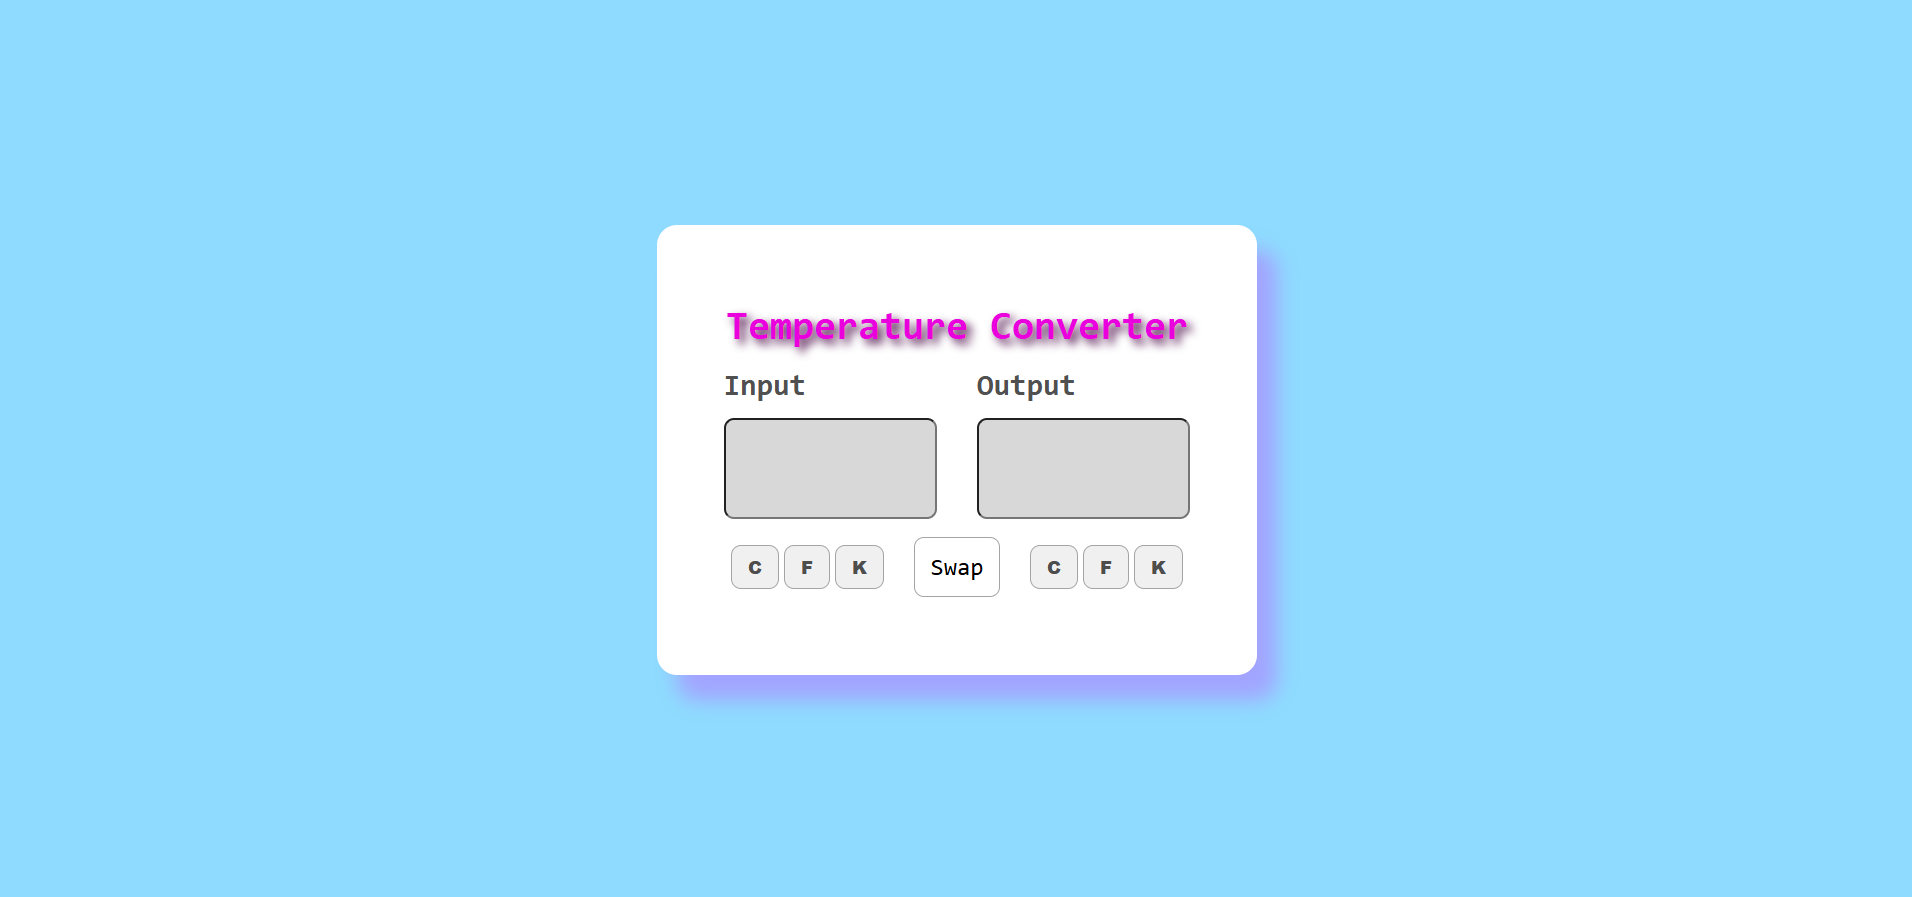
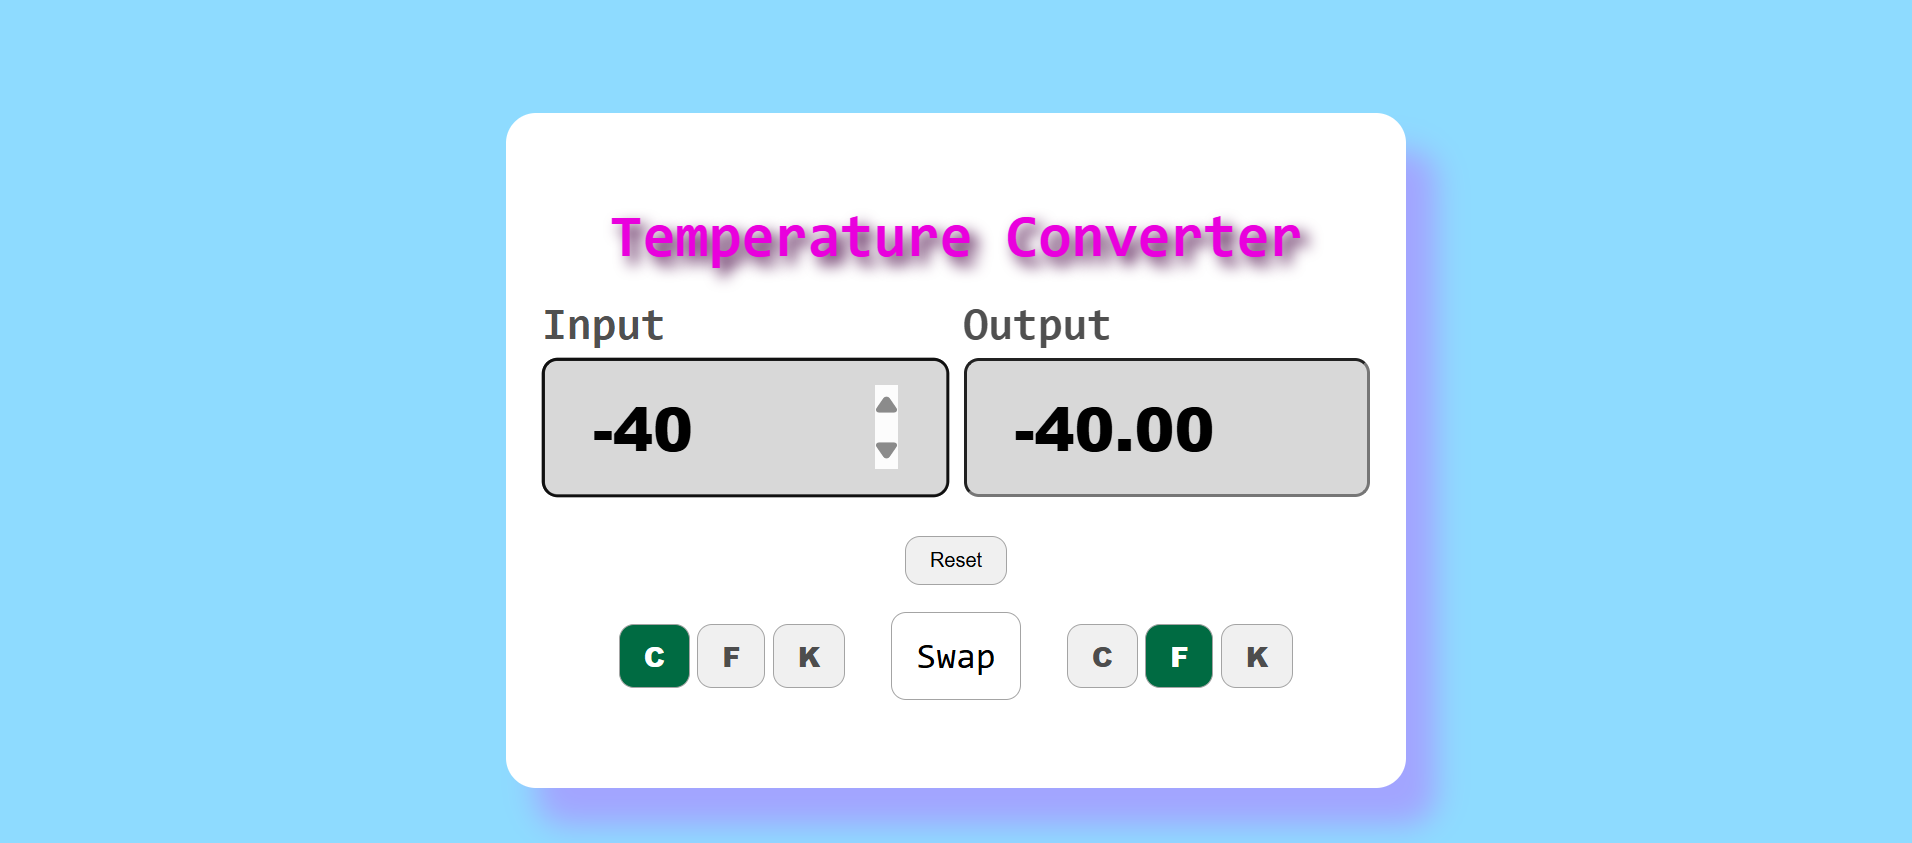
project 012 Temperature converter is completed, applied different approach to reach the final solution to make our code more maintainable.

diff --git a/projects/012-temperature-converter/style.css b/projects/012-temperature-converter/style.css
@@ -67,15 +67,15 @@ body {
   display: flex;
   justify-content: center;
   align-items: center;
-  gap: 40px;
-  width: 85%;
+  gap: 10px;
+  width: 100%;
   padding: 0.5rem;
 }
 .input-output-container div {
   display: flex;
   flex-direction: column;
-  gap: 15px;
-  width: 100%;
+  gap: 5px;
+  width: 90%;
   color: var(--text-secondary);
 }
 .input-output-container label {
@@ -87,11 +87,11 @@ body {
   /* padding: 2rem 1rem; */
   background-color: #d8d8d8;
   border-radius: 10px;
-  font-size: 46px;
+  font-size: 40px;
   padding: 1rem 2rem;
   width: 100%;
   font-weight: 900;
-  flex: 3;
+  flex: 1;
 }
 #output {
   pointer-events: none;
@@ -115,8 +115,8 @@ body {
   padding: 0.5rem;
   gap: 5px;
 }
-.input,
-.output {
+.input-btn,
+.output-btn {
   font-weight: 900;
   font-size: 18px;
   color: var(--text-secondary);
@@ -132,6 +132,15 @@ body {
   font-size: 24px;
 }
 
+.input-btn.active {
+  color: white;
+  background-color: rgb(0, 107, 66);
+}
+.output-btn.active {
+  color: white;
+  background-color: rgb(0, 107, 66);
+}
+
 @media (max-width: 768px) {
   .card {
     max-width: 460px;
@@ -140,36 +149,44 @@ body {
   .card .heading {
     font-size: 32px;
   }
+  .input-output-container div {
+    gap: 3px;
+  }
   .input-output-container .text {
     font-size: 30px;
     padding: 0.5rem 1rem;
     width: 100%;
   }
   .input-output-container {
-    gap: 30px;
     width: 90%;
+  }
+  .input-output-container label {
+    font-size: 20px;
   }
   .swap {
     font-size: 20px;
   }
-  .input,
-  .output {
+  .input-btn,
+  .output-btn {
     font-size: 14px;
   }
 }
 
 @media (max-width: 430px) {
   .card {
-    max-width: 400px;
+    max-width: 250px;
     min-height: 350px;
     gap: 5px;
   }
   .card .heading {
-    font-size: 20px;
+    font-size: 16px;
   }
   .input-output-container {
     flex-direction: column;
-    gap: 20px;
+    gap: 5px;
+  }
+  .input-output-container div {
+    gap: 1px;
   }
   .input-output-container .text {
     font-size: 16px;
@@ -177,14 +194,33 @@ body {
     width: 100%;
   }
   .input-output-container label {
-    font-size: 16px;
+    font-size: 12px;
     width: 100%;
   }
   .swap {
-    font-size: 14px;
+    font-size: 8px;
+    height: 30px;
+    width: 50px;
   }
-  .input,
-  .output {
+  .input-btn,
+  .output-btn,
+  .swap,
+  .btn-reset {
     font-size: 10px;
+    box-shadow: inset 0.5px 0.5px 0.5px var(--text-secondary);
+    transition: all 0.3s ease;
+  }
+  .input-btn:hover,
+  .output-btn:hover,
+  .swap:hover,
+  .btn-reset:hover {
+    box-shadow: none;
+  }
+  .parent-button-container {
+    flex-direction: column;
+    align-items: center;
+    background-color: #ececec;
+    border-radius: 15px;
+    padding: 1rem;
   }
 }

diff --git a/projects/012-temperature-converter/js/app.js b/projects/012-temperature-converter/js/app.js
@@ -1,0 +1,83 @@
+import { DOM, INITIAL_STATE } from "./constants.js";
+import { utils } from "./utils.js";
+
+// 1. Defining state for the app
+
+// state variable
+export let state = {
+  ...INITIAL_STATE,
+};
+
+const handleEvents = {
+  handleInputChangeEvent: function (e) {
+    state.inputValue = e.target.value;
+    if (state.inputValue !== "") renderApp();
+  },
+  handleInputUnitClickEvent: function (e) {
+    state.inputUnit = e.target.dataset.unit;
+    renderApp();
+  },
+  handleOutputUnitClickEvent: function (e) {
+    state.outputUnit = e.target.dataset.unit;
+
+    renderApp();
+  },
+  handleSwapClickEvent: function (e) {
+    let temp = state.inputUnit;
+    state.inputUnit = state.outputUnit;
+    state.outputUnit = temp;
+    renderApp();
+  },
+  handleResetClickEvent: function (e) {
+    // console.log("handleResetClickEvent");
+    state = { ...INITIAL_STATE };
+    DOM.inputValueEle.value = "";
+    DOM.outputValueEle.value = "";
+    renderApp();
+  },
+};
+
+function attachEvents() {
+  DOM.inputValueEle.addEventListener(
+    "input",
+    handleEvents.handleInputChangeEvent,
+  );
+  DOM.inputUnits.forEach((inputUnit) => {
+    inputUnit.addEventListener("click", handleEvents.handleInputUnitClickEvent);
+  });
+  DOM.outputUnits.forEach((outputUnit) => {
+    outputUnit.addEventListener(
+      "click",
+      handleEvents.handleOutputUnitClickEvent,
+    );
+  });
+  DOM.swapBtn.addEventListener("click", handleEvents.handleSwapClickEvent);
+  DOM.resetBtn.addEventListener("click", handleEvents.handleResetClickEvent);
+}
+
+// render app - update DOM
+function renderApp() {
+  if (state.inputValue === "") {
+    DOM.inputValueEle.value = "";
+    DOM.outputValueEle.value = "";
+    utils.highlightAllButtons();
+    return;
+  }
+
+  const result = utils.convertTemp(
+    state.inputValue,
+    state.inputUnit,
+    state.outputUnit,
+  );
+  DOM.outputValueEle.value = result.toFixed(2);
+  utils.highlightAllButtons();
+}
+
+// initializing app first time
+function initApp() {
+  renderApp();
+  attachEvents();
+  //   console.log("app initialize");
+}
+
+initApp();

diff --git a/projects/012-temperature-converter/index.html b/projects/012-temperature-converter/index.html
@@ -25,17 +25,20 @@
             />
           </div>
         </div>
+        <div class="button-container">
+          <button class="btn btn-reset">Reset</button>
+        </div>
         <div class="parent-button-container">
           <div class="button-container">
-            <button class="btn input" data-unit="C">C</button>
-            <button class="btn input" data-unit="F">F</button>
-            <button class="btn input" data-unit="K">K</button>
+            <button class="btn input-btn" data-unit="C">C</button>
+            <button class="btn input-btn" data-unit="F">F</button>
+            <button class="btn input-btn" data-unit="K">K</button>
           </div>
           <span class="btn swap">Swap</span>
           <div class="button-container">
-            <button class="btn output" data-unit="C">C</button>
-            <button class="btn output" data-unit="F">F</button>
-            <button class="btn output" data-unit="K">K</button>
+            <button class="btn output-btn" data-unit="C">C</button>
+            <button class="btn output-btn" data-unit="F">F</button>
+            <button class="btn output-btn" data-unit="K">K</button>
           </div>
         </div>
       </div>

diff --git a/projects/012-temperature-converter/js/utils.js b/projects/012-temperature-converter/js/utils.js
@@ -1,0 +1,40 @@
+import { state } from "./app.js";
+export const utils = {
+  convertTemp: function (value, fromUnit, toUnit) {
+    value = parseFloat(value);
+    if (isNaN(value)) return "";
+    let celcius;
+    if (fromUnit === "F") {
+      celcius = (5 / 9) * (value - 32);
+    } else if (fromUnit === "K") {
+      celcius = value - 273.155;
+    } else {
+      celcius = value;
+    }
+    let result;
+    if (toUnit === "K") {
+      result = celcius + 273.15;
+    } else if (toUnit === "F") {
+      result = (celcius * 9) / 5 + 32;
+    } else {
+      result = celcius;
+    }
+
+    return result;
+  },
+
+  highlightAllButtons: function () {
+    [
+      { selector: ".input-btn", unit: state.inputUnit },
+      { selector: ".output-btn", unit: state.outputUnit },
+    ].forEach((type) => {
+      document.querySelectorAll(type.selector).forEach((btn) => {
+        if (btn.dataset.unit === type.unit) {
+          btn.classList.add("active");
+        } else {
+          btn.classList.remove("active");
+        }
+      });
+    });
+  },
+};

diff --git a/projects/012-temperature-converter/js/constants.js b/projects/012-temperature-converter/js/constants.js
@@ -1,1 +1,14 @@
-export const DOM = {};
+export const DOM = {
+  inputValueEle: document.querySelector("#input"),
+  inputUnits: document.querySelectorAll(".input-btn"),
+  outputUnits: document.querySelectorAll(".output-btn"),
+  swapBtn: document.querySelector(".swap"),
+  resetBtn: document.querySelector(".btn-reset"),
+  outputValueEle: document.querySelector("#output"),
+};
+
+export const INITIAL_STATE = {
+  inputValue: "",
+  inputUnit: "C",
+  outputUnit: "F",
+};
